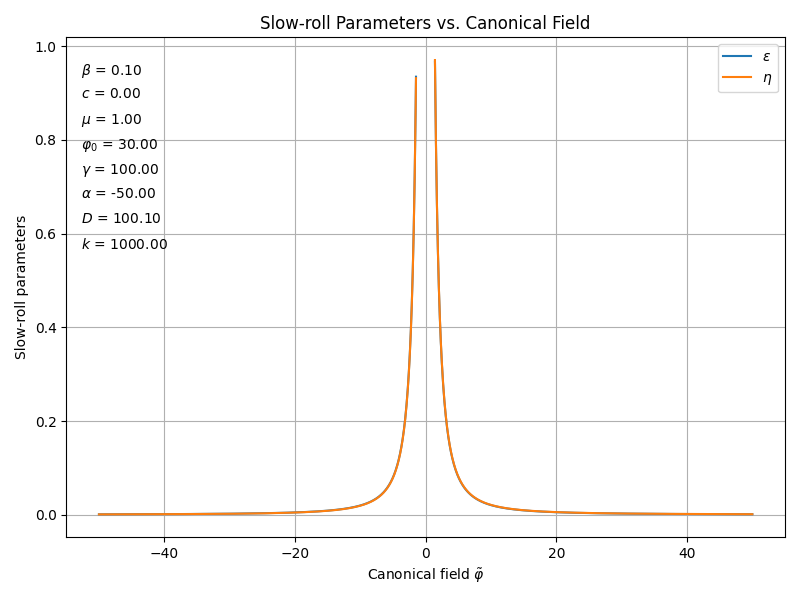
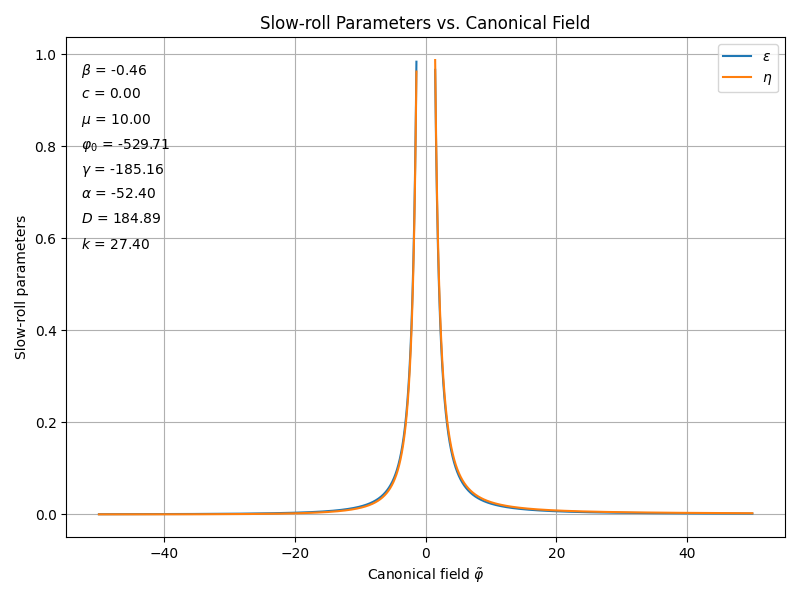
Found nice values, plotted slow roll as function of N

diff --git a/Python/ParamFinder.py b/Python/ParamFinder.py
@@ -1,3 +1,13 @@
+"""
+/**
+ * @author Prabhoda CS
+ * @email pcs52@cam.ac.uk
+ * @create date 15-03-2025 20:28:34
+ * @modify date 15-03-2025 20:28:34
+ * @desc [description]
+ */
+"""
+
 import numpy as np
 import matplotlib.pyplot as plt
 from scipy.optimize import minimize
@@ -40,7 +50,7 @@ def compute_ns(params):
     # Define potential
     def potential(p):
         A = a * phi0**2 + g * phi0 * p + b * p**2
-        return - (m * phi0) ** 2 * (p / A) ** 2 / 2
+        return (m * phi0) ** 2 * (p / A) ** 2 / 2
     
     # Compute potential
     tilde_plot = np.linspace(-200, 200, 1000)

diff --git a/Python/Potential Solver for noncanonical action.py b/Python/Potential Solver for noncanonical action.py
@@ -1,3 +1,13 @@
+"""
+/**
+ * @author Prabhoda CS
+ * @email pcs52@cam.ac.uk
+ * @create date 15-03-2025 20:28:03
+ * @modify date 15-03-2025 20:28:03
+ * @desc [description]
+ */
+"""
+
 import numpy as np
 import matplotlib.pyplot as plt
 from scipy.integrate import solve_ivp
@@ -185,7 +195,6 @@ ax.set_ylabel("Slow-roll parameters")
 ax.set_title("Slow-roll Parameters vs. Canonical Field")
 ax.legend()
 ax.grid(True)
-
 
 # Parameters to display
 parameters = [

diff --git a/Python/Full field as func of N.py b/Python/Full field as func of N.py
@@ -37,7 +37,7 @@ p_s = symbols('phi')
 A = a*phi0**2 + g*phi0*p_s + b*p_s**2
 
 K = - 36*(M*b)**2/A**2 + (k-6)*(phi0*M*D)**2/(2*A**2)
-V = - (m*phi0)**2 * (p_s/A)**2 / 2
+V =  (m*phi0)**2 * (p_s/A)**2 / 2
 
 Kp = diff(K, p_s)
 V_ = diff(V, p_s)
